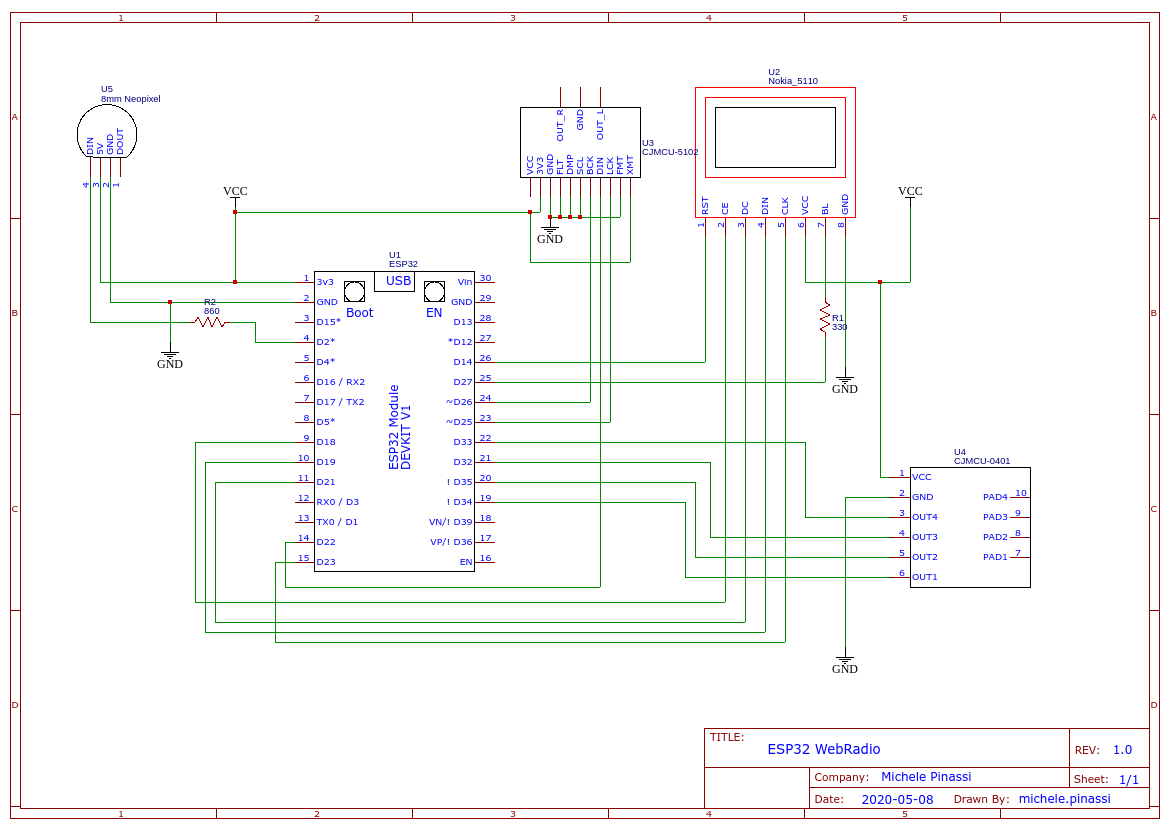
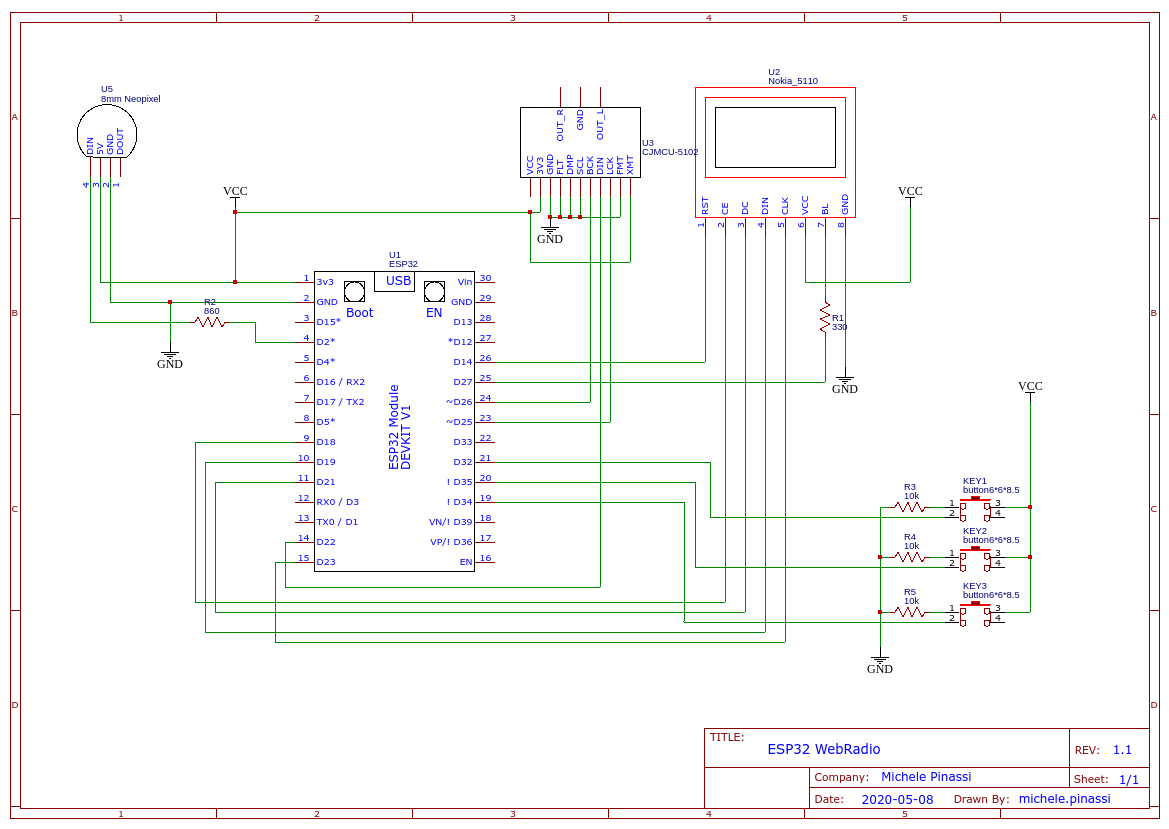
fixes

diff --git a/README.md b/README.md
@@ -3,7 +3,9 @@ An Internet web radio based to ESP32
 
 ESP32 connect to the Internet via WiFI (support PSK/PSK2), fetching MP3/AAC audio stream from your favourite webradio (mine is Dance Wave!). Then decode MP3 and send via I2S to DAC. The DAC simply output audio.
 
-![ESP32 WebRadio](https://raw.githubusercontent.com/michelep/ESP32_WebRadio/master/images/esp32_webradio.jpg)
+![ESP32 WebRadio](https://raw.githubusercontent.com/michelep/ESP32_WebRadio/master/images/esp32_webradio_front.jpg)
+
+![ESP32 WebRadio inside](https://raw.githubusercontent.com/michelep/ESP32_WebRadio/master/images/esp32_webradio_inside.jpg)
 
 ## Configuration
 
@@ -11,11 +13,14 @@ Edit data/config.json file with your wifi ESSID and password. Fill data/streams.
 
 ## Bill of materials
 
-- DOIT ESP32 WebKit v1 (or other suitable ESP32 board...)
-- CJMCU 0401 - 4 capacitive touch button module
-- CJMCU PCM5102 DAC 
-- PCD8544 LCD Display (aka NOKIA 5110 display) module
+- DOIT ESP32 WebKit v1 (or other suitable ESP32 board...) ![AliExpress](https://it.aliexpress.com/item/4000141080480.html)
+- CJMCU 5102 DAC ![AliExpress](https://it.aliexpress.com/item/33023894667.html)
+- PCD8544 LCD Display (aka NOKIA 5110 display) module ![AliExpress](https://it.aliexpress.com/item/32959195226.html)
 - One or more NeoPixel, but they are not mandatory ;-)
+- 3 x 10KOhm 1/8W resistors
+- 330Ohm 1/8W resistor
+- 810Ohm 1/8 W resistor, only if you want to add one or more NeoPixels
+- 3 push buttons ![AliExpress](https://it.aliexpress.com/item/32995191209.html)
 
 ## Schematic
 ![Schematic](https://raw.githubusercontent.com/michelep/ESP32_WebRadio/master/images/schematic.png)
@@ -28,6 +33,13 @@ Edit data/config.json file with your wifi ESSID and password. Fill data/streams.
 0.0.2 - 09.05.2020
   - Added streams.json with lists of stream URL to be played
   - Some minon bugs fixed
+
+0.0.3 - 14.05.2020
+  - Some design changes, like 3 mechanical buttons (but you can use capacitive ones, if you want)
+  - Streams list also on webpage, with the ability to play each with a click
+  - Display graphic improvementes
+  - Lots of new features and bugs fixed
+  - Other minor changes
 
 ## Other resources
 
